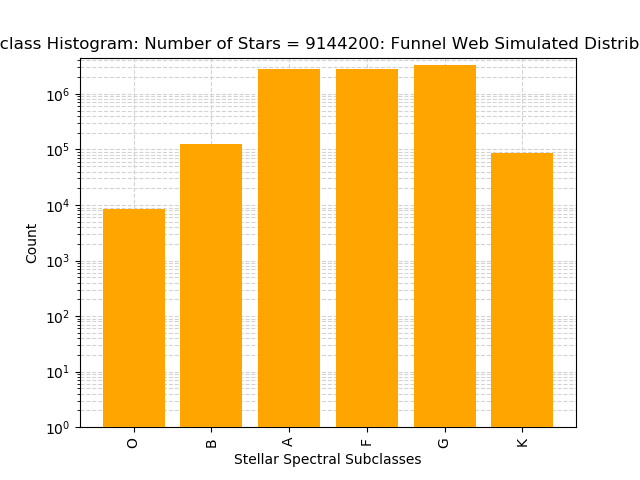
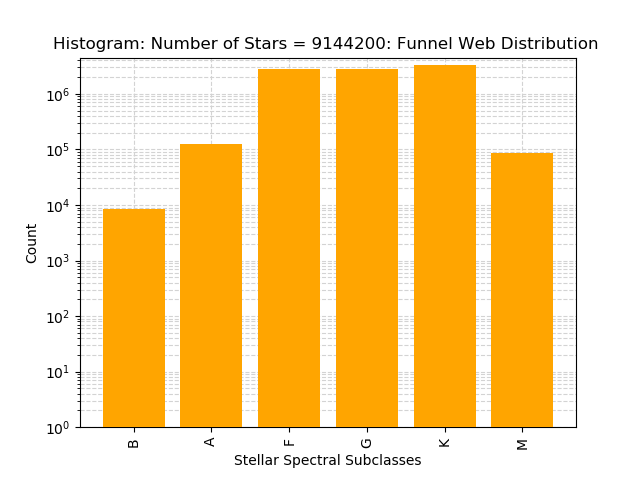
plots

diff --git a/pp_functions.py b/pp_functions.py
@@ -53,12 +53,12 @@ def continuum_normalise(flux_values):
     contNorm_flux_values = flux_values
     return contNorm_flux_values
 
-def subclass_hist(dictionary,ordered_bin_labels,title='no input given',semi_log=False,png_file=None):
-    plt.bar(range(len(dictionary)),list(dictionary.values()),align='center',log=semi_log,zorder=3)
+def subclass_hist(dictionary,ordered_bin_labels,title='no input given',semi_log=False,png_file=None,colour='b'):
+    plt.bar(range(len(dictionary)),list(dictionary.values()),align='center',log=semi_log,zorder=3,color=colour)
     plt.xticks(range(len(dictionary)),ordered_bin_labels,rotation='vertical')
     plt.xlabel("Stellar Spectral Subclasses")
     plt.ylabel("Count")
-    plt.title(f"Subclass Histogram: Number of Stars = {sum(dictionary.values())}: {title} ")
+    plt.title(f"Histogram: Number of Stars = {sum(dictionary.values())}: {title} ")
     plt.grid(which="both",color='lightgrey',zorder=0,ls='--')
     if semi_log is True: plt.ylim(bottom=10**(0))
     if png_file is not None: plt.savefig(f"{png_file}-{sum(dictionary.values())}.png")

diff --git a/stellarpy_testing.py b/stellarpy_testing.py
@@ -9,6 +9,8 @@ from sys import getsizeof
 import glob
 
 funweb_dict = {'B':8600,'A':123800,'F':2805300,'G':2784000,'K':77900+3260000,'M':84600}
+subclass_hist(funweb_dict,Star.all_classes,title='Funnel Web Distribution',semi_log=True,png_file='Small_Data_Files/FW_distribution',colour='orange')
+plt.show()
 segue_dict = {'B':42+26,'A':12255+158,'F':4772+25682+25683,'G':3786+9680,'K':5027+9443+10000+2868,'M':316+1+80+72+103+79+21+4+1}
 subclass_hist(segue_dict,Star.all_classes,title='SEGUE Distribution',semi_log=True,png_file='Small_Data_Files/SG_distribution')
 plt.show()

diff --git a/stellarpy.py b/stellarpy.py
@@ -80,7 +80,7 @@ class Star(object):
         self.hdu1 = Table.read(self.filename,hdu=1)
         self.hdu2 = Table.read(self.filename,hdu=2)
 
-    all_classes = ["O","B","A","F","G","K","M","L"]
+    all_classes = ["B","A","F","G","K","M"]
     all_subclasses = ['O','OB','B6','B9','A0','A0p','F2','F5','F9','G0','G2','G5','K1','K3','K5',\
                       'K7','M0','M0V','M1','M2','M2V','M3','M4','M5','M6','M7','M8','L0','L1','L2','L3',\
                       'L4','L5','L5.5','L9','T2','Carbon','WD','CV','STARFORMING']
